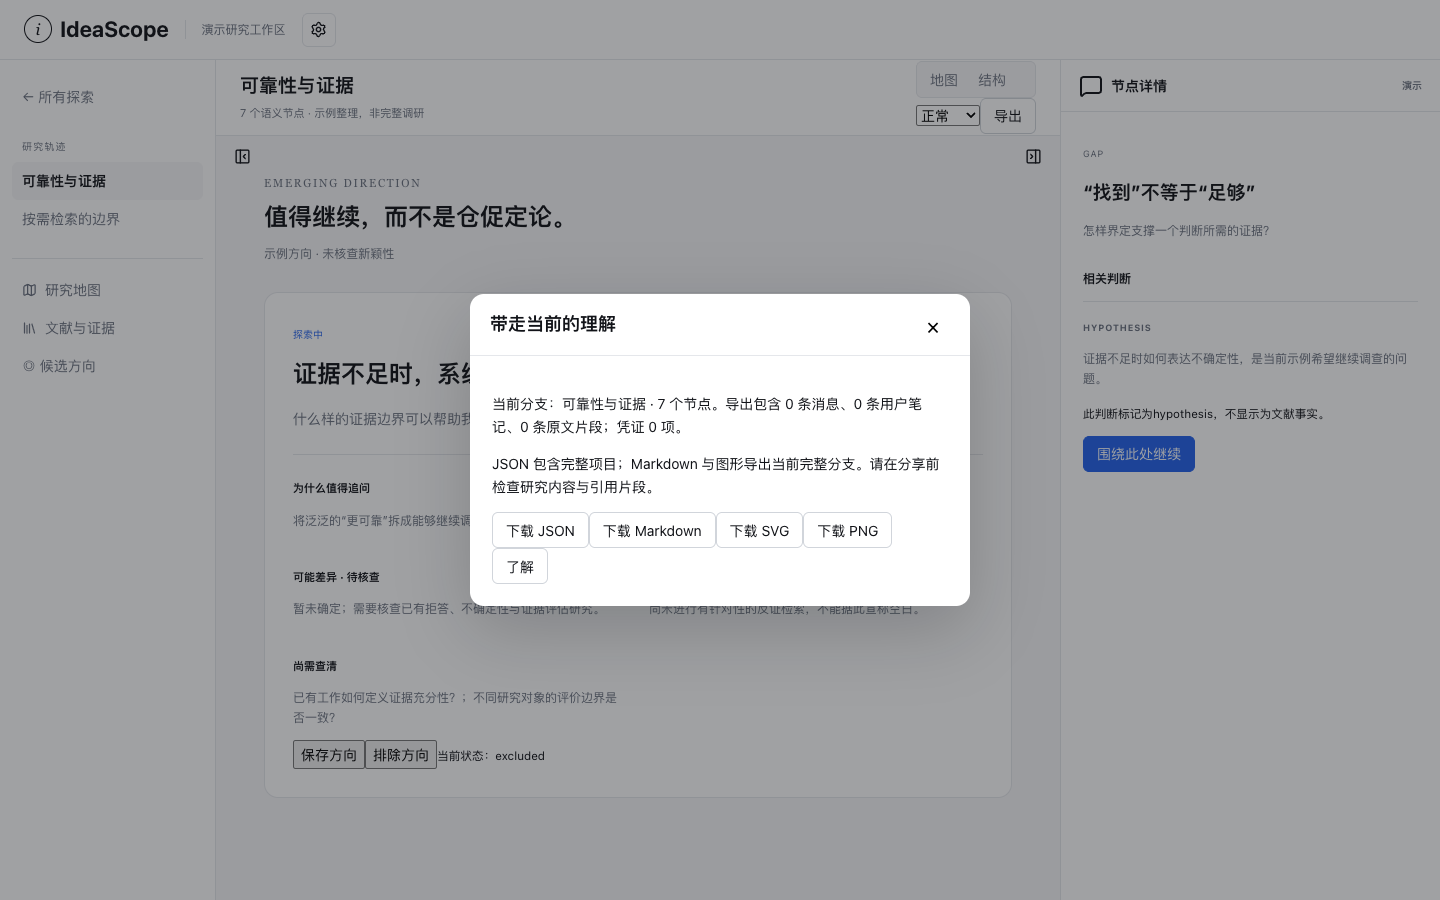
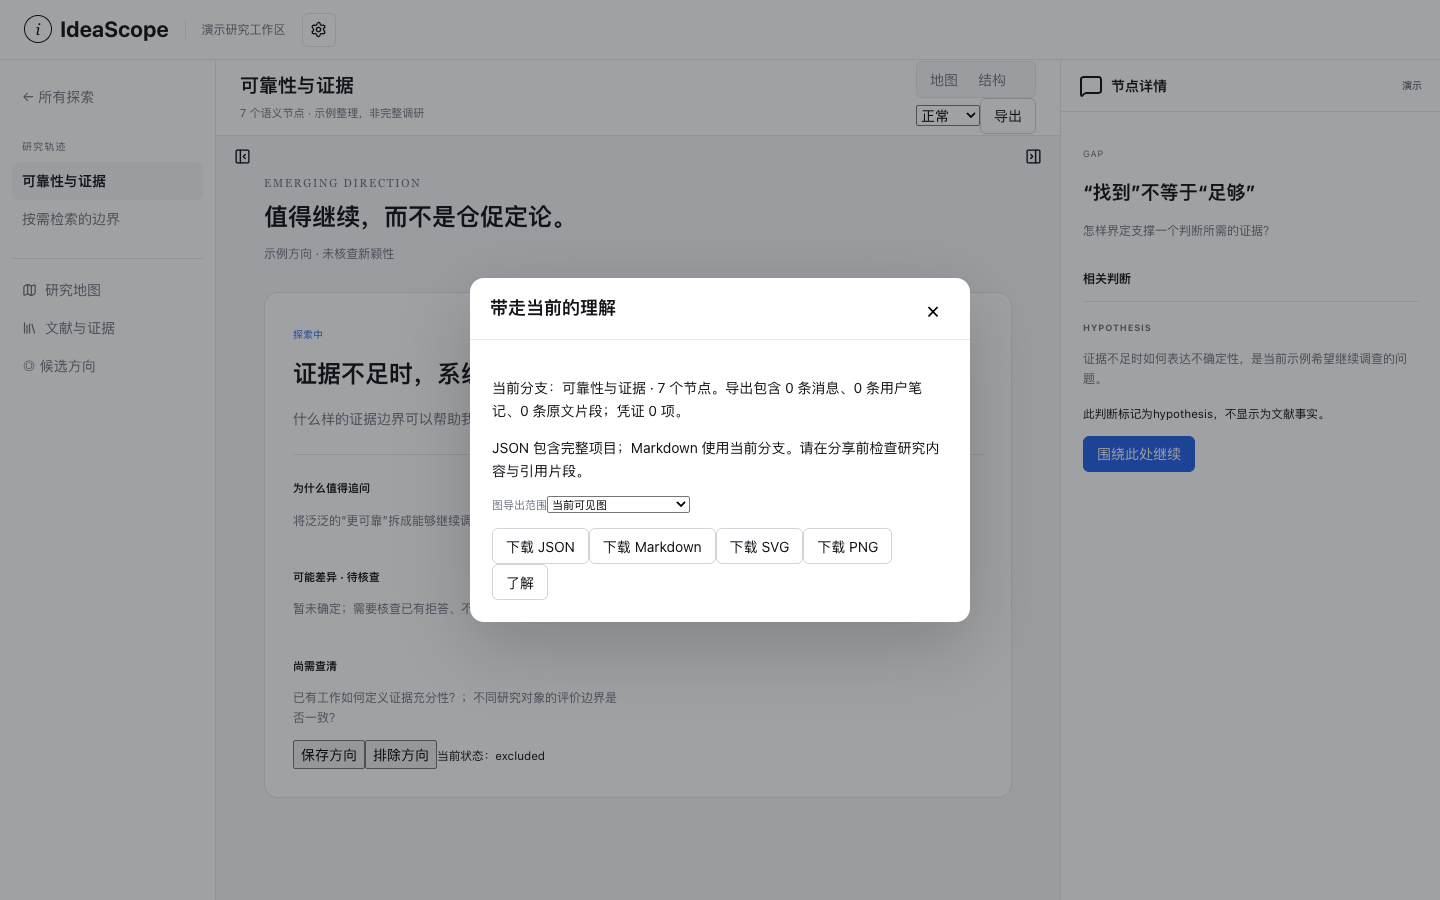
fix: expose graph export scope

Changed region(s): [[0.3125, 0.4044, 0.6875, 0.7156], [0.3125, 0.3111, 0.6875, 0.3733]]

diff --git a/src/pages/WorkspacePage.tsx b/src/pages/WorkspacePage.tsx
@@ -11,6 +11,7 @@ import type { GraphNode } from "../../contracts/domain";
 import type { Branch, GraphPatch } from "../../contracts/domain";
 import demoPatchJson from "../../examples/patch.demo.json";
 import { applyGraphPatch } from "../domain/graph/apply-graph-patch";
+import { planCompaction } from "../domain/graph/compaction";
 import { auditWorkspaceExport, exportBranchSvg, exportWorkspaceJson, exportWorkspaceMarkdown } from "../domain/export/workspace-export";
 import { downloadPngOrSvg, downloadText } from "../infrastructure/export/download";
 import { CitationList } from "../features/evidence/CitationList";
@@ -35,6 +36,7 @@ export function WorkspacePage() {
   const [view, setView] = useState("map");
   const [demoState, setDemoState] = useState<DemoState>("ready");
   const [exportOpen, setExportOpen] = useState(false);
+  const [exportScope, setExportScope] = useState<"visible" | "complete">("complete");
   const [mobilePane, setMobilePane] = useState<"main" | "details">("main");
   const exportValue = { ...workspace, workspace: { ...workspace.workspace, branches, activeBranchId: branchId } };
   const exportAudit = auditWorkspaceExport(exportValue);
@@ -78,7 +80,7 @@ export function WorkspacePage() {
   }
   function currentSvg() {
     if (!branch) throw new Error("演示分支不存在。");
-    return exportBranchSvg(branch, "complete");
+    return exportBranchSvg(branch, exportScope, planCompaction(branch).visibleIds);
   }
   function showMobileSection(next: "map" | "papers" | "details") {
     if (next === "details") {
@@ -270,7 +272,14 @@ export function WorkspacePage() {
         onClose={() => setExportOpen(false)}
       >
         <p>当前分支：{branch.title} · {branch.graph.nodes.length} 个节点。导出包含 {exportAudit.messages} 条消息、{exportAudit.userNotes} 条用户笔记、{exportAudit.evidenceExcerpts} 条原文片段；凭证 0 项。</p>
-        <p>JSON 包含完整项目；Markdown 与图形导出当前完整分支。请在分享前检查研究内容与引用片段。</p>
+        <p>JSON 包含完整项目；Markdown 使用当前分支。请在分享前检查研究内容与引用片段。</p>
+        <label>
+          图导出范围
+          <select aria-label="图导出范围" value={exportScope} onChange={(event) => setExportScope(event.target.value as "visible" | "complete") }>
+            <option value="visible">当前可见图</option>
+            <option value="complete">完整分支（含折叠节点）</option>
+          </select>
+        </label>
         <Button onClick={() => downloadText("ideascope-workspace.json", "application/json", exportWorkspaceJson(exportValue, "0.6.0"))}>下载 JSON</Button>
         <Button onClick={() => downloadText("ideascope-outline.md", "text/markdown", exportWorkspaceMarkdown(exportValue, branch.id))}>下载 Markdown</Button>
         <Button onClick={() => downloadText("ideascope-map.svg", "image/svg+xml", currentSvg())}>下载 SVG</Button>

diff --git a/tests/e2e/static-preview.spec.ts b/tests/e2e/static-preview.spec.ts
@@ -166,6 +166,9 @@ test("exposes truthful demo states, sources, directions, and export boundary", a
   const dialog = page.getByRole("dialog", { name: "带走当前的理解" });
   await expect(dialog).toBeVisible();
   await expect(dialog).toContainText("凭证 0 项");
+  await expect(page.getByLabel("图导出范围")).toHaveValue("complete");
+  await page.getByLabel("图导出范围").selectOption("visible");
+  await expect(page.getByLabel("图导出范围")).toHaveValue("visible");
   await page.screenshot({ path: "reports/visual/export-dialog-1440x900.png", fullPage: true });
   await expect(page.getByRole("button", { name: "关闭弹窗" })).toBeFocused();
   await page.keyboard.press("Shift+Tab");

diff --git a/docs/PROGRESS.md b/docs/PROGRESS.md
@@ -458,7 +458,7 @@
 
 实际修改文件：`src/domain/export/workspace-export.ts`、`src/infrastructure/export/download.ts`、工作区导出 Dialog、unit/e2e 与本文件。
 
-已完成：JSON 导出覆盖完整 workspace 且不含凭证字段；Markdown 按节点/判断输出 epistemicStatus、编号引用与参考文献，并保留“推断/假设非事实”声明。SVG 只含文本、路径和矩形，不含脚本、HTML、远程图片；可选当前 visible IDs 或完整非归档分支。PNG 在安全尺寸内用本地 Canvas 栅格化，超 8192px 或无法解析尺寸时降级下载 SVG，不生成空文件。导出 Dialog 预览消息、用户笔记、证据 excerpt 数量和 credentials=0。导入经版本迁移后总是分配不冲突的新 workspace ID并标记为非 demo，避免覆盖。
+已完成：JSON 导出覆盖完整 workspace 且不含凭证字段；Markdown 按节点/判断输出 epistemicStatus、编号引用与参考文献，并保留“推断/假设非事实”声明。SVG 只含文本、路径和矩形，不含脚本、HTML、远程图片；Dialog 可选择当前可见图或完整非归档分支。PNG 在安全尺寸内用本地 Canvas 栅格化，超 8192px 或无法解析尺寸时降级下载 SVG，不生成空文件。导出 Dialog 预览消息、用户笔记、证据 excerpt 数量和 credentials=0。导入经版本迁移后总是分配不冲突的新 workspace ID 并标记为非 demo，避免覆盖。
 
 测试命令与结果：`npm run check` 全部通过；ESLint、严格 typecheck、16 个 unit/contract 文件共 61 项测试、production build、11 项 Playwright e2e 与 secret scan 均成功。unit 覆盖 JSON 往返/密钥扫描、Markdown 引用、visible/complete SVG、惰性 SVG、安全 PNG 降级与导入 ID 冲突；e2e 验证 JSON/SVG 实际下载及文件名。
 
